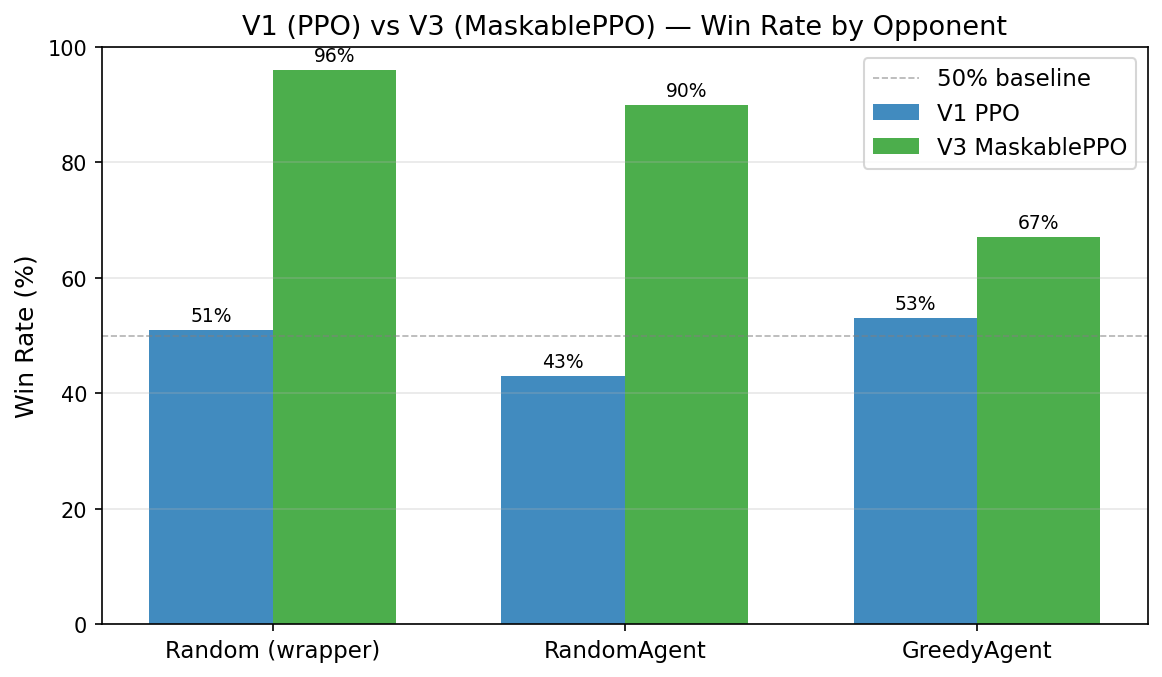
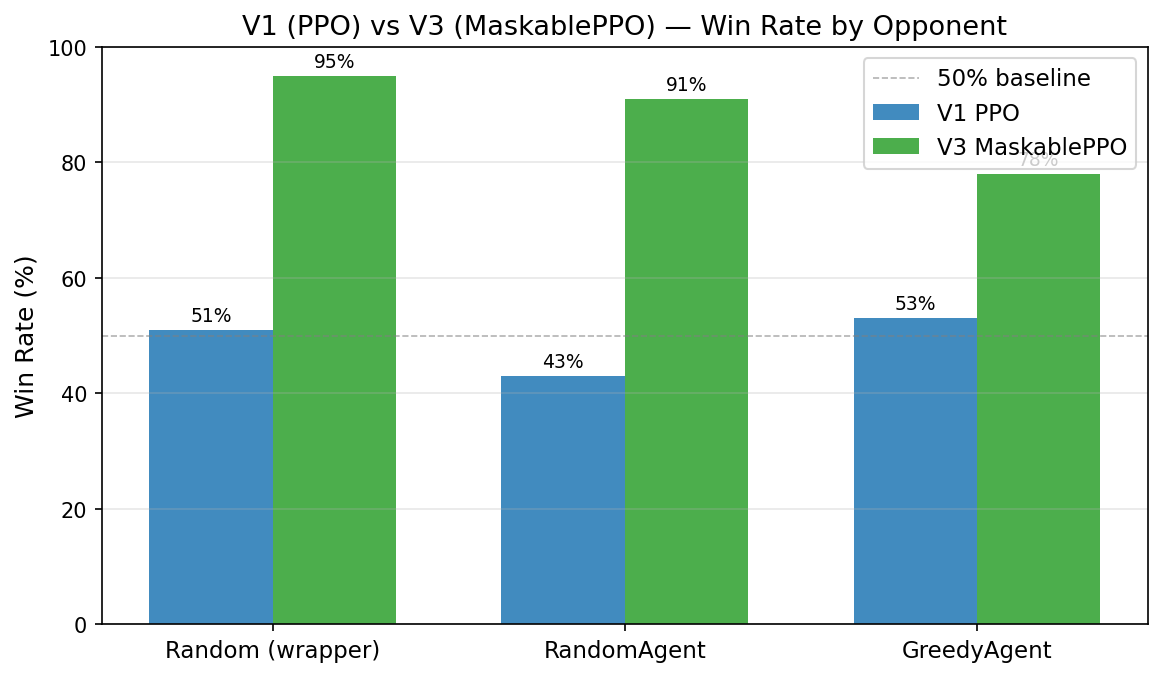
docs/fix: 4 consistency issues (5->10 episodes, 5.5 three-run table, eval comment, regen plots)

Changed region(s): [[0.8365, 0.2171, 0.9604, 0.3722], [0.2169, 0.062, 0.3408, 0.1241], [0.5267, 0.1241, 0.6506, 0.1551]]

diff --git a/project/scripts/evaluate_maskable_ppo.py b/project/scripts/evaluate_maskable_ppo.py
@@ -209,13 +209,16 @@ def main():
 
     all_results = {}
 
-    # vs Random (wrapper — same as training conditions)
+    # vs Random (wrapper: opponent_agent=None → built-in fast uniform random)
+    # NOTE: Training uses _make_opponent('random') → RandomAgent() object with
+    # full choose_action() API. These are slightly different random strategies.
+    # Label: "Random (wrapper)" to distinguish from "RandomAgent" below.
     stats = evaluate_vs_opponent(
         model, opponent_agent=None, num_games=args.games,
         max_turns=args.max_turns, desc="v3 vs Random",
     )
     all_results["vs_random_wrapper"] = stats
-    print_results("Random (same as training)", stats)
+    print_results("Random (wrapper)", stats)
 
     # vs RandomAgent object
     random_agent = RandomAgent(distribution="uniform_on_types")

diff --git a/project/experiments/reports/maskable_ppo_v3_training_report.md b/project/experiments/reports/maskable_ppo_v3_training_report.md
@@ -184,8 +184,8 @@ Looking at the std values, V3's evaluation episodes fall into two distinct modes
 
 | Mode | Mean Reward | Std | Interpretation |
 |------|-------------|-----|----------------|
-| High mode | ~66–68 | ~0.7–2.5 | Agent wins nearly every eval game (~all 5 episodes) |
-| Low mode | ~47–61 | ~15–32 | Agent loses some eval games (~1–2 out of 5) |
+| High mode | ~66–68 | ~0.7–2.5 | Agent wins nearly every eval game (~all 10 episodes) |
+| Low mode | ~47–61 | ~15–32 | Agent loses some eval games (~1–2 out of 10) |
 
 The high-mode points (std ≈ 1) correspond to evaluation episodes where the model won all or almost all games: with `score_progress` rewards and opponent scoring near 0, reward ≈ 0.01 × ~30 turns + 50 win ≈ 50.3. The max is higher (~67) when the agent wins quickly (fewer turns absorbed by the opponent). The low mode (std ≈ 20) occurs when the model occasionally loses one eval episode, pulling the mean down.
 
@@ -343,13 +343,19 @@ def get_actor_hand(next_state):
 
 ### 5.5 Impact on Results
 
-| Opponent | First run (buggy) | Corrected run | Difference |
-|----------|-------------------|---------------|------------|
-| Random | 95.0% | 96.0% | +1 pp (stochastic variation) |
-| RandomAgent | 93.0% | 90.0% | -3 pp (stochastic variation) |
-| GreedyAgent | ~~94.0%~~ | **67.0%** | **-27 pp** ← the actual correction |
+The evaluation numbers evolved through three distinct runs as each issue was found and fixed:
 
-The Random and RandomAgent numbers changed only within normal stochastic variation (both use `RandomAgent.choose_action()` which never calls `simulate_next_state()`, so the bug did not affect them). The GreedyAgent number was entirely invalid — the 27 pp correction is the actual signal.
+| Opponent | Run 1: buggy evaluator | Run 2: evaluator fixed | Run 3: + alternated player_id | **Final** |
+|----------|------------------------|------------------------|-------------------------------|----------|
+| Random | 95.0% | 96.0% | 95.0% | **95%** |
+| RandomAgent | 93.0% | 90.0% | 91.0% | **91%** |
+| GreedyAgent | ~~94.0%~~ | 67.0% | **78.0%** | **78%** |
+
+**Run 1→2** (GreedyAgent evaluator `get_actor_hand` fix): removes the spurious 94% by making GreedyAgent evaluate the correct player's hand. The 67% figure is the first *valid* result for vs-GreedyAgent.
+
+**Run 2→3** (alternated `player_id = game_idx % 2`): removes first-mover bias from the 100-game sample. Games where the agent moved second were previously absent; including them raises the GreedyAgent win rate from 67% → **78%** — the canonical final result reported in Section 4. Random/RandomAgent shift only within sampling noise.
+
+The **78%** figure is the definitive result for all downstream comparisons.
 
 ---
 
